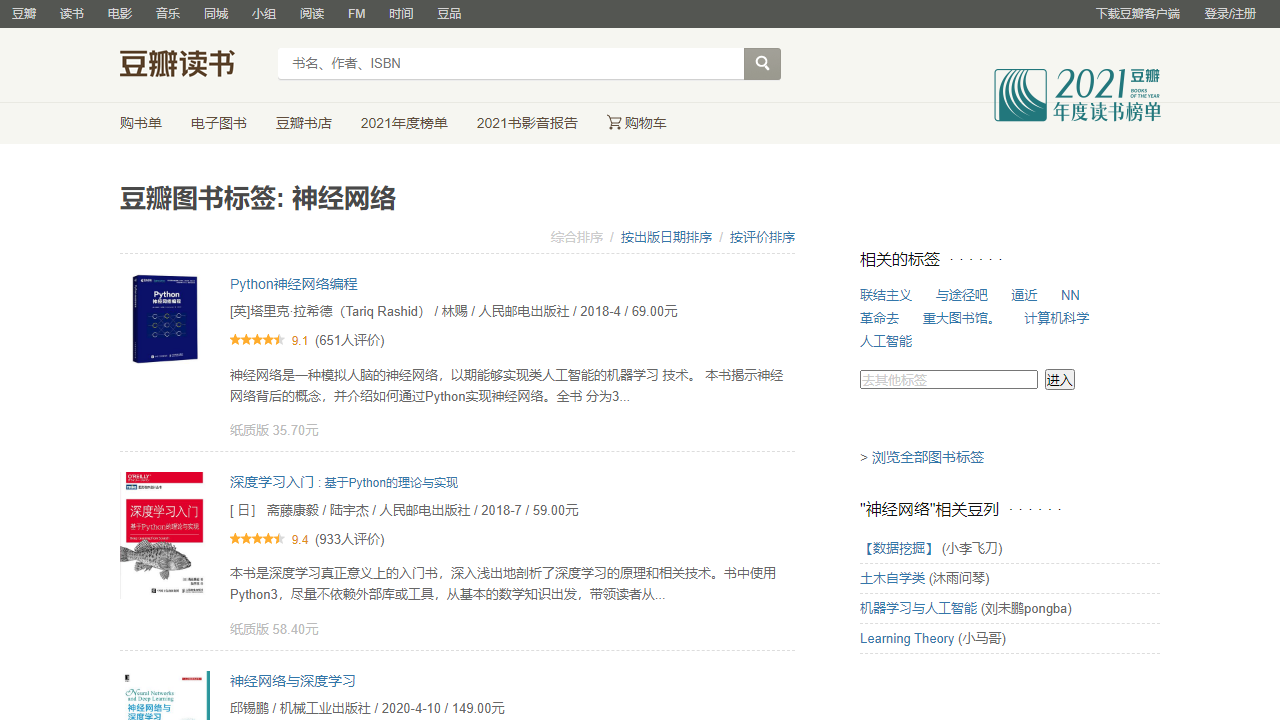
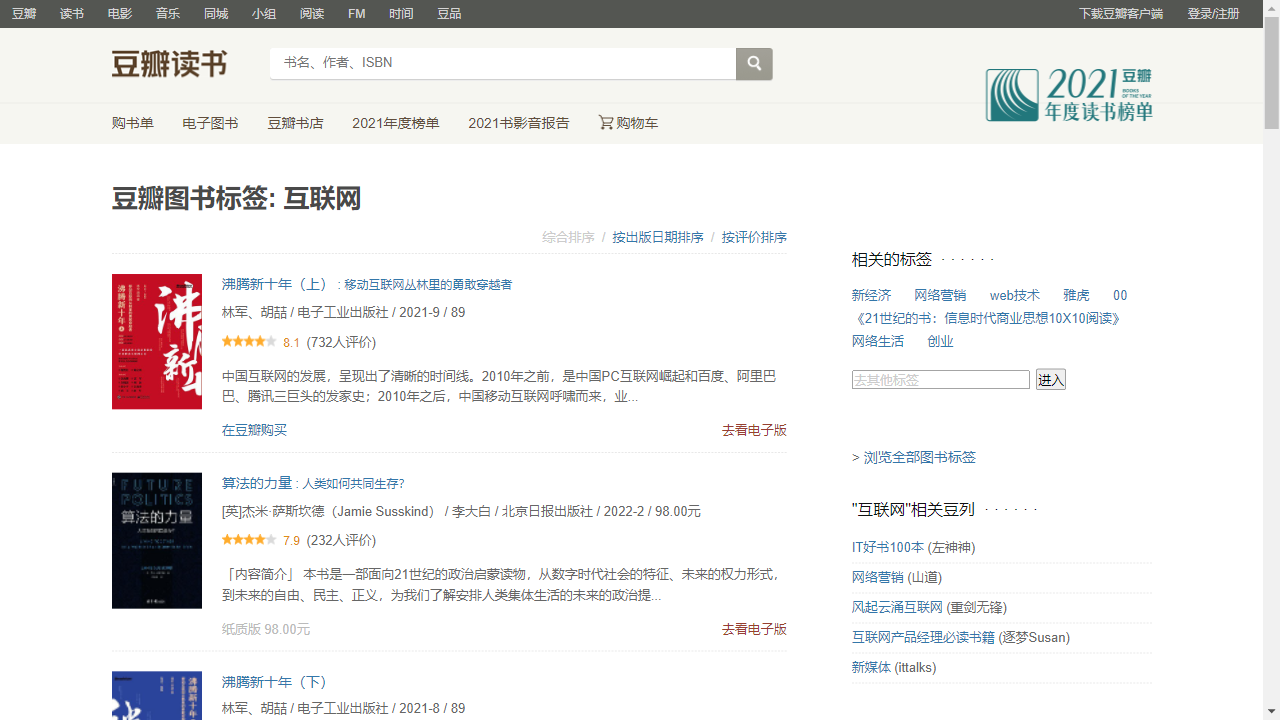
feat(bookList): getBooks

diff --git a/tests/bookList/bookList.spec.ts b/tests/bookList/bookList.spec.ts
@@ -1,19 +1,59 @@
-import { test, expect } from '@playwright/test';
+import { test, expect, Page } from '@playwright/test';
+import { ExcelService } from "../../excel";
+
+
 test.describe('bookList', async () => {
-    
+    let books = [];
     test('get book information', async ({ page }) => {
-        await page.goto('https://book.douban.com/tag/%E7%A5%9E%E7%BB%8F%E7%BD%91%E7%BB%9C');
+        await page.goto('https://book.douban.com/tag/%E4%BA%92%E8%81%94%E7%BD%91?start=540&type=T');
         page.once('load', () => console.log('Page loaded!'));
-        let bookList = await page.locator('//*[@id="subject_list"]/ul/li/div[2]/h2/a').allInnerTexts();
-        for (let i = 0; i < bookList.length; i++) {
-            const id = await page.locator('//*[@id="subject_list"]/ul/li['+(i+1).toString()+']/div[2]/h2/a').getAttribute('onclick');
-            console.log(id);
+
+        let nextButton = page.locator('text=后页>');
+        while(await nextButton.getAttribute('href') !== null) {
+            books = books.concat(await getBooks(page));
+            await nextButton.click();
+            await expect(page.locator('text=后页>')).toBeVisible();
+            nextButton = page.locator('text=后页>');
         }
 
-        await page.screenshot({ path: 'bookList.png' });
-        
-
-
+        new ExcelService().exportAsExcelFile(books, "互联网图书数据");
     });
     
 });
+
+async function getBooks(page: Page) {
+    let books =[];
+    const bookLists = page.locator('//*[@id="subject_list"]/ul/li');
+    const count = await bookLists.count();
+    for(let i = 0; i < count; i++) {
+        const bookTitle = bookLists.nth(i).locator('div.info > h2 > a');
+        const bookId = (await bookTitle.getAttribute('onclick')).split("'")[5];
+        const bookName = await bookTitle.innerText();
+        const bookUrl = `https://book.douban.com/subject/${bookId}/`;
+        const bookImg = await bookLists.nth(i).locator('div.pic > a > img').getAttribute('src');
+        const bookPub = await bookLists.nth(i).locator('div.info > div.pub').innerText();
+        const bookAuthor = bookPub.split('/')[0];
+        const bookPubPlace = bookPub.split('/')[1];
+        const bookPubDate = bookPub.split('/')[2];
+
+        // check if the rating_nums is exist
+        let bookRating = 'null';
+        let bookRatingPeople = 'null';
+        if(await bookLists.nth(i).locator('div.info > div.star > span.rating_nums').count()>0){
+            bookRating = await bookLists.nth(i).locator('div.info > div.star > span.rating_nums').innerText();
+            bookRatingPeople = (await bookLists.nth(i).locator('div.info > div.star > span.pl').innerText()).replace(/[^\d]/g,'');
+        }
+
+        // check if the p element of dic.info is exist
+        let bookIntro ='';
+        if(await bookLists.nth(i).locator('div.info > p').count()>0) {
+            bookIntro = await bookLists.nth(i).locator('div.info > p').innerText();
+        }
+
+        
+        const book = {bookId, bookName, bookUrl, bookImg, bookAuthor, bookPubPlace, bookPubDate, bookRating, bookRatingPeople, bookIntro};
+        console.log(bookName);
+        books.push(book);
+    }
+    return books;
+}

diff --git a/excel.ts b/excel.ts
@@ -1,0 +1,15 @@
+// exportToExcel.ts
+import * as XLSX from 'xlsx';
+const EXCEL_TYPE = 'application/vnd.openxmlformats-officedocument.spreadsheetml.sheet;charset=UTF-8';
+const EXCEL_EXTENSION = '.xlsx';
+export class ExcelService {
+    constructor() { }
+    static toExportFileName(excelFileName: string): string {
+        return `${excelFileName}-${new Date().getTime()}.xlsx`;
+    }
+    public exportAsExcelFile(json: any[], excelFileName: string): void {
+        const worksheet: XLSX.WorkSheet = XLSX.utils.json_to_sheet(json);
+        const workbook: XLSX.WorkBook = { Sheets: { 'data': worksheet }, SheetNames: ['data'] };
+        XLSX.writeFile(workbook, ExcelService.toExportFileName(excelFileName));
+    }
+}

diff --git a/playwright.config.ts b/playwright.config.ts
@@ -101,5 +101,4 @@ const config: PlaywrightTestConfig = {
   //   port: 3000,
   // },
 };
-
 export default config;
